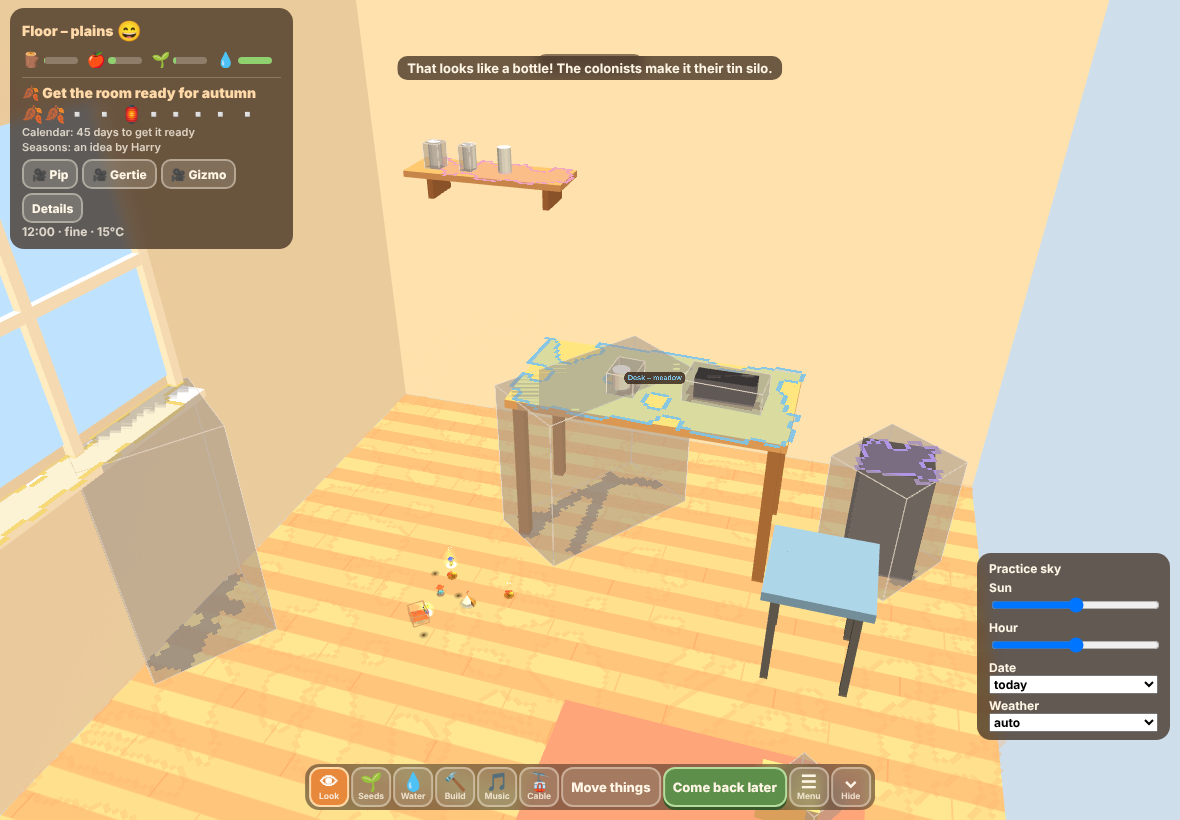
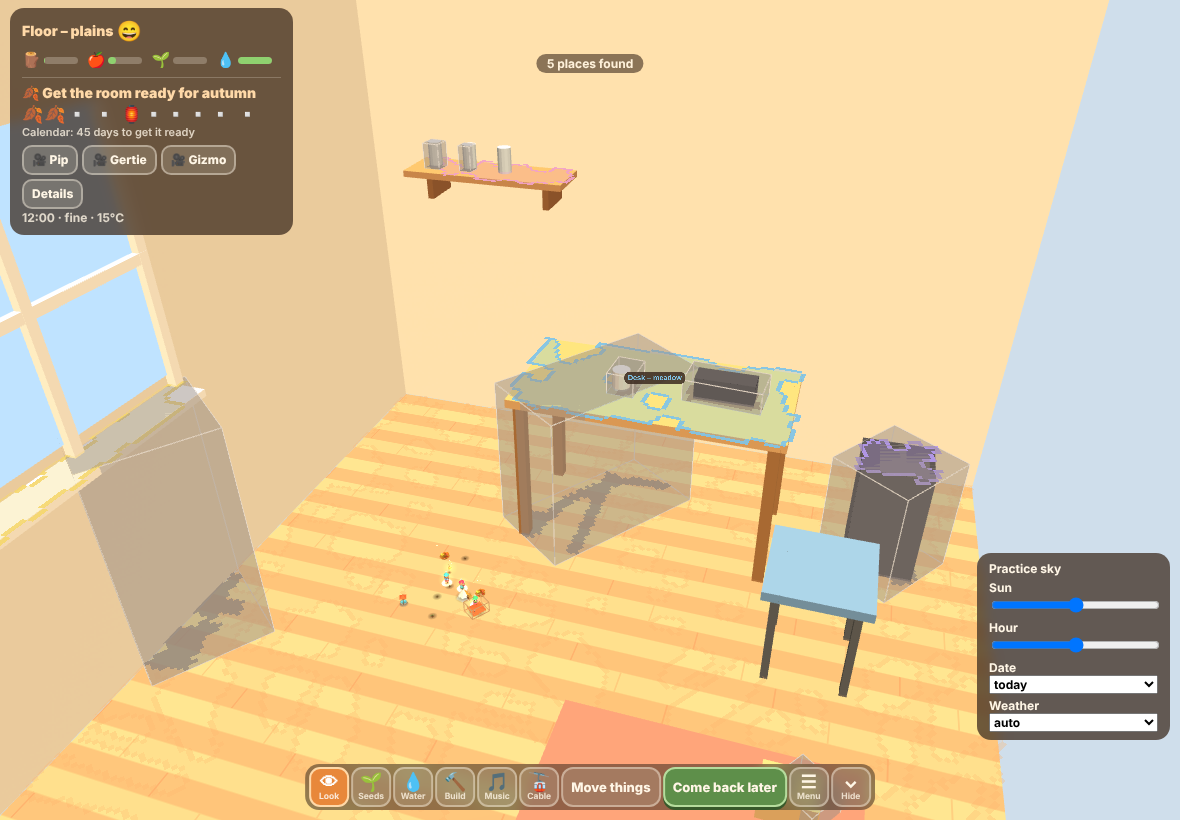
Base Camp build 14: seasons from the date (an idea by Harry), season goals, advent calendar, creature cam, simpler card, pacing fixes
Claude-Session: https://claude.ai/code/session_0171oc5wTsPoimaja7RRfUcs

diff --git a/games/base-camp/index.html b/games/base-camp/index.html
@@ -1273,7 +1273,7 @@ function simSettlement(S, dt, E, quiet) {
   // arrivals: new settlers wander in when there is room, food and a good mood
   S.arrT += dt;
   const cap = S.spec === 'grove' ? 2 : POP_MAX;
-  if (S.arrT > (S.fx && S.fx.hideout ? 60 : 100) * (1.6 - 0.8 * landTidy(szone(S).land).ratio) * (careOn() ? 0.7 : 1.4) && S.cols.length < cap && S.cols.length < housing(S) && S.stock.food >= 3 && S.cols.length && S.cols.reduce((a, c) => a + c.needs.joy, 0) / S.cols.length > 0.5) {
+  if (S.arrT > (S.fx && S.fx.hideout ? 60 : 100) * (1.6 - 0.8 * landTidy(szone(S).land).ratio) * (careOn() ? 0.9 : 3.2) && S.cols.length < cap && S.cols.length < housing(S) && S.stock.food >= 3 && S.cols.length && S.cols.reduce((a, c) => a + c.needs.joy, 0) / S.cols.length > 0.5) {
     S.arrT = 0; const c = addColonist(S, { x: rnd(-0.06, 0.06), z: rnd(0.06, 0.1) }); c.spawn = 0.1; if (DIARY.on) DIARY.arrived.push(c.name); c.mesh.userData.born = 0; if (!quiet) { toast('A new settler, ' + c.name + ', joined the colony!'); sfx('cheer'); }
   }
   // thriving
@@ -2723,7 +2723,7 @@ function decorTick(quiet) {
 }
 function seaSim(dt, quiet) {
   SEA.placeT -= dt; if (SEA.placeT <= 0) { SEA.placeT = careOn() ? 14 : 40; if (G.settlements.length) decorTick(quiet); }
-  SEA.expT += dt; if (SEA.expT > 60) { SEA.expT = 0; if (G.settlements.length && G.settlements.length < 1 + Math.floor(G.simT / 6000) && !G.settlements.some((S) => S.awaiting) && (SEA.needFar || G.settlements.some((S) => S.thriving && S.t > 1500 && !S.lost && !S.awaiting))) autoExpand(); } /* one new surface about every 75 minutes at most */
+  SEA.expT += dt; if (SEA.expT > 60) { SEA.expT = 0; if (G.settlements.length && G.settlements.length < 1 + Math.floor(G.simT / (careOn() ? 3000 : 7500)) && !G.settlements.some((S) => S.awaiting) && (SEA.needFar || G.settlements.some((S) => S.thriving && S.t > 1500 && !S.lost && !S.awaiting))) autoExpand(); } /* one new surface about every 75 minutes at most */
 }
 function packAway(first) { /* a new season: last season's decorations go back in the box (the calendar stays through Advent and New Year) */
   const ok = new Set([ENV.seasonKey]); if (['autumn', 'advent', 'newyear'].includes(ENV.season)) ok.add('advent-' + adventYear()); let n = 0;
@@ -2778,7 +2778,7 @@ function calUi() {
   let head; if (!have) head = 'No calendar yet: the colony is making one.'; else if (!info.standing) head = 'The calendar is ready! It opens in ' + info.daysToStand + (info.daysToStand === 1 ? ' day.' : ' days.'); else if (info.daysToDoor1 > 0) head = 'The first door opens in ' + info.daysToDoor1 + (info.daysToDoor1 === 1 ? ' day.' : ' days.'); else head = 'One door a day. Missed a day? Those doors wait for you.';
   let grid = ''; for (let n = 1; n <= 24; n++) { const st = advState(n), e = ADVENT[n - 1]; grid += `<button class="door ${st}" data-door="${n}" ${st === 'ready' && have ? '' : 'disabled'} aria-label="Door ${n} ${st}">${st === 'open' ? e.icon : st === 'ready' ? '<b>' + n + '</b>' : '<span>' + n + '</span>'}</button>`; }
   const last = list.length ? ADVENT[list[list.length - 1] - 1] : null;
-  m.innerHTML = `<div class="dh">📅 Advent calendar</div><div class="sub">${esc(head)}</div><div class="doors">${grid}</div>` + (last ? `<div class="sub" style="margin-top:8px">${last.icon} ${esc(last.title)}: ${esc(last.text)} <i class="by">by ${esc(last.by)}</i></div>` : '') + '<button id="calClose">Close</button>';
+  m.innerHTML = `<div class="dh">📅 Advent calendar</div><div class="sub">${esc(head)} <i class="by">Seasons: an idea by ${SEA_CREDIT}</i></div><div class="doors">${grid}</div>` + (last ? `<div class="sub" style="margin-top:8px">${last.icon} ${esc(last.title)}: ${esc(last.text)} <i class="by">by ${esc(last.by)}</i></div>` : '') + '<button id="calClose">Close</button>';
   m.onclick = (e) => { const d = e.target.closest && e.target.closest('[data-door]'); if (d && !d.disabled) { advOpen(+d.dataset.door); return; } if (e.target.closest && e.target.closest('#calClose')) { m.hidden = true; delete m.dataset.cal; m.onclick = null; } };
 }
 const seaFace = (m) => (m >= 0.8 ? '😄' : m >= 0.6 ? '🙂' : m >= 0.4 ? '😐' : m >= 0.2 ? '🙁' : '😢');
@@ -2787,7 +2787,7 @@ function goalHtml() {
   if (cal && ENV.season === 'autumn') extra = '<div class="gsub">' + (cal.b >= 1 ? 'Calendar ready: ' + (info.daysToStand ? info.daysToStand + (info.daysToStand === 1 ? ' day' : ' days') + ' until it opens' : 'it opens today') : 'Calendar: ' + (info.daysToStand ? info.daysToStand + (info.daysToStand === 1 ? ' day' : ' days') + ' to get it ready' : 'get it ready')) + '</div>';
   const calBtn = advCalendars().length ? '<button class="cbtn" data-cal="1">📅 Advent calendar</button>' : '';
   const unl = SEA.unl[ENV.seasonKey] ? '<div class="gsub">Unlocked: ' + DECOR[SEA.unl[ENV.seasonKey]].ic + ' ' + esc(DECOR[SEA.unl[ENV.seasonKey]].name) + '</div>' : '';
-  return `<div class="goal"><b>${P.sd.icon} ${esc(P.done ? P.sd.name + ' is ready!' : P.sd.goal.title)}</b><div class="strip">${seaStripHtml(P)}</div>${extra}${unl}${calBtn}<div class="gsub">Seasons: an idea by ${SEA_CREDIT}</div></div>`;
+  return `<div class="goal"><b>${P.sd.icon} ${esc(P.done ? P.sd.name + ' is ready!' : P.sd.goal.title)}</b><div class="strip">${seaStripHtml(P)}</div>${extra}${unl}${calBtn}</div>`;
 }
 /* ---- per-frame life of the decorations (called from visuals) ---- */
 function decorAnim(S, t, m, time, dt) {
@@ -2863,7 +2863,7 @@ function envLine(full) {
   const hh = Math.floor(ENV.hour), mm = Math.floor((ENV.hour % 1) * 60), sky = (ENV.night ? 'night' : ENV.rain ? 'rain' : ENV.hot ? 'hot' : ENV.cold ? 'cold' : ENV.windy ? 'windy' : ENV.dim ? 'dim' : 'fine') + ' · ' + Math.round(ENV.wx.temp) + '°C';
   return `<div style="opacity:.8;font-size:12px">${String(hh).padStart(2, '0')}:${String(mm).padStart(2, '0')} · ${sky}${full ? ' · sun ' + ENV.sun.toFixed(2) + ' · growth x' + ENV.grow.toFixed(2) : ''}</div>`;
 }
-function chipsHtml(S) { const cs = S.cols.filter((c) => !c.inside && c.spawn <= 0).slice(0, 5); return cs.length ? '<div class="chips">' + cs.map((c) => `<button class="cbtn" data-cam="${c.id}" title="Watch ${esc(c.name)}">🎥 ${esc(c.name.split(' ')[0])}</button>`).join('') + '</div>' : ''; }
+function chipsHtml(S) { const cs = S.cols.filter((c) => !c.inside && c.spawn <= 0).slice(0, innerWidth < 500 ? 3 : 5); return cs.length ? '<div class="chips">' + cs.map((c) => `<button class="cbtn" data-cam="${c.id}" title="Watch ${esc(c.name)}">🎥 ${esc(c.name.split(' ')[0])}</button>`).join('') + '</div>' : ''; }
 
 // ============ save / load / return ============
 // The colony is saved apart from the room map. Its settlements name the map zone they live on (zid) and store their position in that zone's own frame,
@@ -4511,7 +4511,7 @@ function cardUi() {
   const mood = S.cols.length ? S.cols.reduce((a, c) => a + c.needs.joy, 0) / S.cols.length : 0, t = S.zoneRef && S.zoneRef.land ? landTidy(S.zoneRef.land) : null, cap = capOf(S);
   const res = '<div class="resrow">' + resHtml('\ud83e\udeb5', S.stock.wood, cap, 'wood') + resHtml('\ud83c\udf4e', S.stock.food, cap, 'food') + resHtml('\ud83c\udf31', S.stock.seeds, 12, 'seeds') + resHtml('\ud83d\udca7', S.stock.water, 8, 'water') + (S.stock.tin ? resHtml('\ud83e\udd6b', S.stock.tin, cap, 'tin') : '') + '</div>';
   let html = th + `<b>${esc(roomTag() + S.zoneName)}</b>${S.thriving ? ' \u2605' : ''} <span class="face">${seaFace(mood)}</span>` + res + goalHtml() + chipsHtml(S) + `<button class="cbtn" data-more="1">${G.cardMore ? 'Hide details' : 'Details'}</button>`;
-  if (G.cardMore) html += `<div class="det" style="margin-top:4px">settlers ${S.cols.length} \u00b7 mood ${Math.round(mood * 100)}%<br>wood ${S.stock.wood} \u00b7 food ${S.stock.food} \u00b7 seeds ${S.stock.seeds} \u00b7 tin ${S.stock.tin || 0}` + (t ? `<br>land ${Math.round(t.ratio * 100)}% clear (${t.area.toFixed(2)} m\u00b2)` : '') + '</div>' + envLine(true) + roomTidyLine(); else html += envLine(false);
+  if (G.cardMore) html += `<div class="det" style="margin-top:4px">Seasons: an idea by ${SEA_CREDIT}<br>settlers ${S.cols.length} \u00b7 mood ${Math.round(mood * 100)}%<br>wood ${S.stock.wood} \u00b7 food ${S.stock.food} \u00b7 seeds ${S.stock.seeds} \u00b7 tin ${S.stock.tin || 0}` + (t ? `<br>land ${Math.round(t.ratio * 100)}% clear (${t.area.toFixed(2)} m\u00b2)` : '') + '</div>' + envLine(true) + roomTidyLine(); else html += envLine(false);
   el.hidden = false; cardSet(el, html);
 }
 function roomTidyLine() { const T = G.tidy; return T.objects || T.squashed ? `<div style="opacity:.8;font-size:12px">tidied ${T.objects} · recycled ${T.tin} tin · squashed ${T.squashed}</div>` : ''; }

diff --git a/games/base-camp/tests/seasons-test.js b/games/base-camp/tests/seasons-test.js
@@ -77,7 +77,8 @@ const res = []; const ok = (n, c, x) => { res.push(!!c); console.log((c ? 'PASS 
   ok('pacing: 2.5 h alone is not a stall (mood up, settlers and huts kept growing)', pace[9000].mood >= 0.4 && pace[9000].pop >= pace[1800].pop && pace[9000].huts >= pace[1800].huts);
   ok('pacing: the colony has decorated or spread by itself', pace[9000].decor >= 2 || pace[9000].settlements >= 2);
   // phone card shot
-  await p.setViewportSize({ width: 390, height: 844 }); await ev(() => { __g.ENV.dateOverride = '2026-10-15'; __g.ENV._sk = 0; __g.envUpdate(); __g.G.cardMore = false; }); await sleep(1200);
+  await p.setViewportSize({ width: 390, height: 844 }); await ev(() => { __g.ENV.dateOverride = '2026-10-15'; __g.ENV._sk = 0; __g.envUpdate(); __g.G.cardMore = false; }); await ev(() => { document.getElementById('ask').hidden = true; document.getElementById('toast').innerHTML = ''; document.getElementById('banner').className = ''; document.getElementById('banner').style.display = 'none'; }); await sleep(1500);
+  await ev(() => { for (const i of ['toast', 'ask', 'guess', 'tagpick']) { const e = document.getElementById(i); if (e) { e.hidden = true; if (i === 'toast') e.innerHTML = ''; } } });
   await p.screenshot({ path: OUT + '47-card-simple.png' });
   ok('0 page errors', errs.length === 0, JSON.stringify(errs.slice(0, 3)));
   console.log(res.filter(Boolean).length + '/' + res.length + ' passed'); await b.close(); srv.close(); process.exit(res.every(Boolean) ? 0 : 1);

diff --git a/games/base-camp/HANDOVER.md b/games/base-camp/HANDOVER.md
@@ -58,6 +58,18 @@ World = AR local space in metres. Every map zone has a frame `(cx, cz, ang, y)`;
 ```
 Role, travel method and funny things are **not** stored: they come from the tag via `TAGS` + the council's `rooms.json` at runtime, so editing the council file changes the game. Import validates kind, version, sizes (refuses with a message); the colony is never in the map. Export / import is the "Room map" window (text box, download, copy, load file).
 
+## Build 14 notes: seasons are the goal (an idea by Harry), the creature cam, a calmer card, pacing fixed
+Seasons idea by Harry ("they could start decorating the home for different seasons"); credited in game (album entries "by Harry", the Details block, the calendar window). CAIRN rated build 13's practice room 6/10: no goal, specks on the floor, a spreadsheet card, a colony that stalled. All six points are addressed.
+- **Seasons** (section SEASONS, before "save / load / return"): `SEASONS` (array: id, name, icon, from/to `[month, day]`, `goal {title, items [{k, n}], special}`, `events`), `DECOR` (kind -> name, icon, r, wood, work, `far`, `own`), `DECOR_MK` (low-poly models, real art comes from the town), `ADVENT` (24 doors). Everything we invented has `by: 'CAIRN (placeholder)'`; **one new entry in a table = one new thing**. `ENV.dateOverride` ('2026-12-01') beats the device date (the practice sky has a Date picker; tests set it, then `ENV._sk = 0; envUpdate()`). `ENV.season`, `ENV.seasonKey` ('autumn-2026'; Jan 1 to 6 belong to 'newyear-<year before>'). UK dates: autumn 1 Sep-28 Nov, Advent and Christmas 29 Nov-26 Dec, New Year 27 Dec-6 Jan, winter 7 Jan-end Feb, spring Mar-May, summer Jun-Aug. The old diary list called `SEASONS` is now `DIARY_SEASONS`.
+- **The goal**: decorations are ordinary `KINDS` things (so the colonists build them, the Build tool places them, saves carry them). `t.sea` = the season key that owns it, `t.gift` = a free extra (never counts toward the goal). `seaProgress()` counts built things of the current key. `decorTick` (in `seaSim`, from `simTick` and the away sim; every 40 s alone, every 14 s while played) plans the first missing item on a settlement with wood, at most 2 (3 played) open at a time; `far` items (harvest table, calendar) wait for a second surface that a cable car has reached (`SEA.needFar` makes `autoExpand` run). The strip is pictures only: built icons, dimmed icons for planned, an empty square for missing (`seaStripHtml`). Completion (`seaComplete`): milestone `sea-<key>` (registered on demand by `seaMile`, also on load), banner and confetti, joy +0.35, the season's special decoration unlocked and placed free, and added to the Build menu (`seaBuildList`). Last season's decorations are packed away on a season change (`packAway`; the calendar stays through Advent and New Year). Saved in the colony save as `seas {done, adv, unl, packed}` (per room, old saves load clean). Funny parts: colonists jump in leaf piles (job `leap`), lanterns wobble, `seaEvent` (events of the season, needs a built decoration of a kind), the snowman sneezes.
+- **Advent calendar**: 24 matchboxes, `advInfo()` (countdown days to 29 Nov and to door 1), `advState(n)` open / ready / locked (door n is ready from n December), `advCanOpen`, `advOpen`; opened doors are queued in `SEA.q` and play one every 2.6 s (so several at once is fine); missed days never lock. Gifts by `ADVENT[n].kind`: decor (free stocking, chain, lantern), visitor (lint snail, paper moth, button beetle, sock worm, bobbin hedgehog circle the camp for 260 s), event (joy, hop, confetti), story. Tap the calendar or the "Advent calendar" button in the card for the window (`calUi`). Before 29 Nov it is the 4th item of the autumn goal with a countdown line.
+- **Creature cam**: tap a creature (also pokes it) or a chip in the card. `CCAM`, `camOpen`, `camClose`, `ccamRender`: a second scissored viewport of the same renderer after the main render (so it also works in AR where the main camera is the device), drawn only while open, 152 px wide; one tap on it closes it. It shows name, mood face and `doingText` ("carrying a lantern", "jumping in the leaves"). `ccamRender(true)` reads pixels back (test only).
+- **Fewer numbers**: the card (`cardUi`) is room · surface, a mood face, wood / food / seeds / water icons with bars, the goal strip and creature chips. `Details` (`G.cardMore`) shows settlers, mood %, stock numbers, m2, sun and growth. AR keeps its one-line card with a mood face plus `#gstrip` (the goal strip). Tests should read `__g` state rather than card text. The practice sky panel is unchanged.
+- **Pacing**: the stall was reproduced in the practice room: colonists froze with food 0 and water 0 while the stores were full. Causes: (1) a `go` walk that never arrives (a target on a zone edge, looping round clutter) had no timeout, so the job never ended and nobody ever ate; fixed with `GO_MAX` 40 s (`j.gt`); (2) hunger and thirst could not interrupt chat, wander and similar (`PRE_JOBS`); (3) a `//` comment mid-line in `simSettlement` had swallowed `if (!sleeping) n.rest...`, so rest never fell (fixed); (4) hard caps (5 huts, 9 settlers, stores 24) with nothing to spend wood on: now `HUT_MAX` 8, `POP_MAX` 12, decorations are a wood sink, decorations cheer people (`S.decN`), and `seaSim` runs `autoExpand` live (at most one new surface per 125 min alone, per 50 min while played, only once a camp has thrived 25 min). "Played" = `care()` was called in the last 10 sim minutes (taps, requests, watering, building): arrivals come about 3.5x sooner, decorations are planned 3x sooner, builds 25% faster. Nobody dies. `__g.simulate` now moves the sun with the simulated time when the device clock is used (a fixed `hourOverride` stays fixed), so long runs have nights.
+- **Pacing numbers** (practice room, day cycle from 09:00, `pace2.js` driven from the test side; settlers / huts / mood / wood / food): BEFORE (build 13) 30 min 9 / 5 / 0.70 / 24 / 24; 2.5 h 9 / 5 / 0.39 / 24 / 24; 8 h 9 / 5 / 0.05 / 24 / 24 (stalled, one settlement, everything at the caps, mood falling to the floor). AFTER, alone: 30 min 9 / 8 / 0.95 / 24 / 24 (8 decorations); 2.5 h 23 settlers in 2 camps, 16 huts, 0.92; 8 h 39 settlers in 4 camps, 23 huts, 0.97. AFTER, played: 30 min 12 / 8 / 0.95; 2.5 h 41 settlers in 4 camps, 22 huts, 0.96; 8 h 53 in 5 camps, 30 huts, 0.97 (all the zones of the practice room).
+- **Test**: `tests/seasons-test.js` (27 checks, about 6 minutes): six seasons from dates, placeholders marked, strip and completion (milestone, album, special, Harry), advent (countdown, 1 Dec, 5 Dec, five at once, no re-open), save and reload, old save, creature cam (opens, really renders, closes, nothing drawn while closed), the simple card and Details, pacing alone, 0 page errors. Screenshots `shots/44-autumn-goal.png`, `45-advent-calendar.png`, `46-creature-cam.png`, `47-card-simple.png` (390 x 844).
+- **Rough edges**: the decorations are placeholder low-poly shapes; the calendar's 3D doors open but carry no numbers (the window has them); a gift decoration with no free spot is skipped; the creature cam uses the full pixel ratio but is tiny; `far` items need the colony to build a cable car first, so the first harvest supper can take an hour; seasons never change a colony that nobody opens (it only packs away when played or loaded); the date picker year is the current year.
+
 ## Colony save (key `base-camp-save-v2`)
 `{ v:2, t, hour, simT, uid, nameIdx, tidy, settlements:[{ id, zid (map zone), spec, adj, o:[u,v], stock{wood food seeds water tin}, stats, things[], cols[] }], links[] }`. `things` includes landmarks (`kind:'lm'`, `role`, `spot`), rubble, stations. The prototype's v1 save is no longer read.
 
